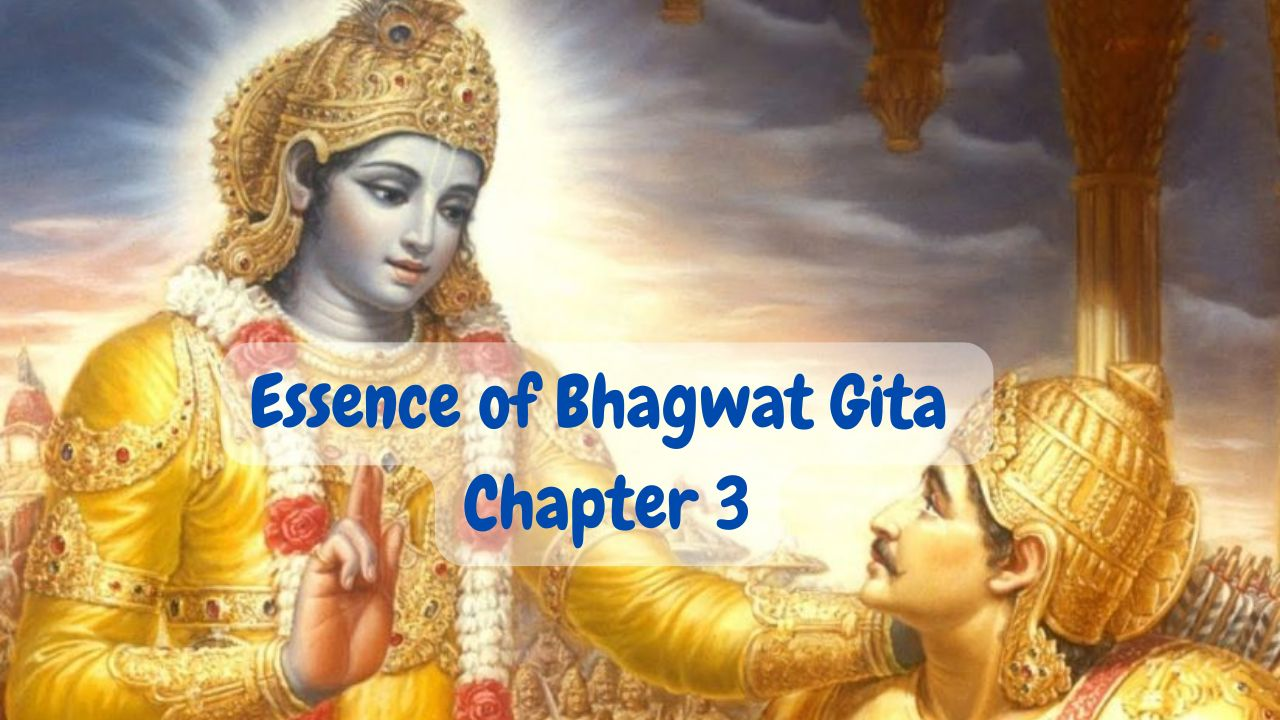
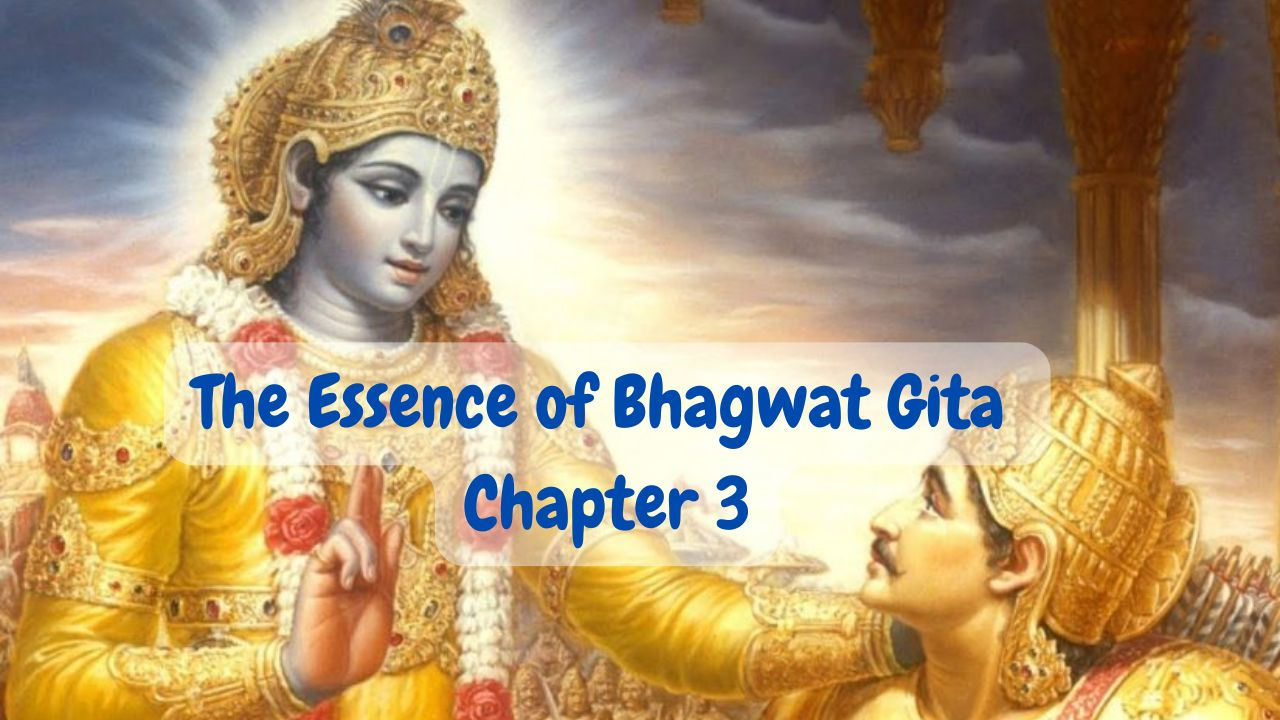
The Essence of BG 18th chapter

Changed region(s): [[0.125, 0.4583, 0.8438, 0.6722]]

diff --git a/_wiablog/2025-02-09-The-Essense-of-Bhagwat-Gita-18th-Chapter.md b/_wiablog/2025-02-09-The-Essense-of-Bhagwat-Gita-18th-Chapter.md
@@ -1,0 +1,206 @@
+---        
+id: 5276
+mathjax: true        
+title:  "The Essence of Bhagwat Gita: 18th Chapter"        
+date: "2025-02-09T08:33:00+05:30"        
+permalink: /wiaposts/essence-of-bhagwat-gita-18th-chapter
+header:        
+    teaser: /assets/images/wiapost/5276-Essence-of-Bhagwat-Gita-18th-chapter.jpg               
+author: Hari Thapliyaal        
+layout: wiapost-layout        
+author_profile: true        
+share: true
+categories: [wiaposts] 
+tags:  [Vedanta,  Mindfulness, Bhagwat Gita]      
+keywords: [Bhagavad Gita Chapter 18 Summary, Moksha Sannyasa Yoga, Path of Liberation and Renunciation, Essence of Bhagavad Gita]  
+excerpt: The 18th chapter of the Bhagavad Gita, titled Moksha-Sannyasa Yoga" (The Yoga of Liberation and Renunciation). It is one of the longest chapter with 78 sloka. Key takeaways from this chapter are discussed in this article.
+toc: true
+toc_sticky: true
+toc_levels: 3
+---
+
+![The Essence of Bhagwat Gita: 18th Chapter](/assets/images/wiapost/5276-Essence-of-Bhagwat-Gita-18th-chapter.jpg)
+
+# The Essence of Bhagwat Gita: 18th Chapter
+
+The 18th chapter of the **Bhagavad Gita**, titled Moksha-Sannyasa Yoga" (The Yoga of Liberation and Renunciation). It is one of the longest chapter with 78 sloka. Key takeaways from this chapter are discussed in this article. At this time I am writing only in Hindi and Devanagari script, in future when time permit I will translate this into English.
+
+##  Difference between Renunciation (Sanyasa) and  Tyaga  
+### Sloka in Devanagari & Hindi 
+काम्यानां कर्मणां न्यासं संन्यासं कवयो विदुः ।  
+सर्वकर्मफलत्यागं प्राहुस्त्यागं विचक्षणाः ॥ 18.2 
+त्याज्यं दोषवदित्येके कर्म प्राहुर्मनीषिणः ।  
+यज्ञदानतपःकर्म न त्याज्यमिति चापरे ॥ 18.3  
+यज्ञदानतपःकर्म न त्याज्यं कार्यमेव तत् ।  
+यज्ञो दानं तपश्चैव पावनानि मनीषिणाम् ॥ 18.5
+
+कवि (पण्डित) जन काम्य कर्मों के त्याग को "संन्यास" समझते हैं और विचारशील जन समस्त कर्मों के फलों के त्याग को "त्याग" कहते हैं।  
+कुछ मनीषी जन कहते हैं कि समस्त कर्म दोषयुक्त होने के कारण त्याज्य हैं; और अन्य जन कहते हैं कि यज्ञ, दान और तपरूप कर्म त्याज्य नहीं हैं।  
+कर्म त्याज्य - यज्ञ, दान और तप का त्याज नहीं है । यज्ञ, दान और तप ये मनीषियों (साधकों) को पवित्र करने वाले हैं।
+
+## Three Types of Tyaga
+### Sloka in Devanagari & Hindi 
+नियतस्य तु संन्यासः कर्मणो नोपपद्यते ।  
+मोहात्तस्य परित्यागस्तामसः परिकीर्तितः ॥ 18.7  
+दुःखमित्येव यत्कर्म कायक्लेशभयात्त्यजेत् ।  
+स कृत्वा राजसं त्यागं नैव त्यागफलं लभेत् ॥ 18.8  
+कार्यमित्येव यत्कर्म नियतं क्रियतेऽर्जुन ।  
+सङ्गं त्यक्त्वा फलं चैव स त्यागः सात्त्विको मतः ॥ 18.9 
+
+
+जो कर्म नियत हैं, उनका संन्यास उचित नहीं है। मोहवश उन्हें त्याग देना तामसिक त्याग कहलाता है।  
+कर्म को दु:ख समझकर शारीरिक कष्ट के भय से त्यागना, इसे राजसिक त्याग कहते हैं । ऐसे त्यागका इच्छित फल प्राप्त नहीं होता है।  
+"कर्म करना कर्तव्य है" ऐसा समझकर जो नियत कर्म आसक्ति और फल को त्यागकर किया जाता है, वही सात्त्विक त्याग माना गया है।  
+
+
+
+## Five Causes for Karama Inspiration
+### Sloka in Devanagari & Hindi 
+
+**कर्मों की सिद्धि के लिए ये पांच कारण**
+
+पञ्चैतानि महाबाहो कारणानि निबोध मे।   
+सांख्ये कृतान्ते प्रोक्तानि सिद्धये सर्वकर्मणाम् ।। 18.13   
+अधिष्ठानं तथा कर्ता करणं च पृथग्विधम् ।  
+विविधाश्च पृथक्चेष्टा दैवं चैवात्र पञ्चमम् ॥ 18.14  
+शरीरवाङ्मनोभिर्यत्कर्म प्रारभते नरः।  
+न्याय्यं वा विपरीतं वा पञ्चैते तस्य हेतवः ।। 18.15
+
+समस्त कर्मों की सिद्धि के लिए ये पांच कारण सांख्य सिद्धांत में कहे गये हैं।   
+अधिष्ठान (शरीर), कर्ता ,विविध करण (इन्द्रियादि) ,विविध और पृथक्-पृथक् चेष्टाएं तथा पाँचवा हेतु दैव है।  
+मनुष्य अपने शरीर, वाणी और मन से जो कोई न्याय्य (उचित) या विपरीत (अनुचित) कर्म करता है, उसके ये पाँच कारण ही हैं।
+
+## Thinking I am Karta is Bad Intellect.
+### Sloka in Devanagari & Hindi 
+
+तत्रैवं सति कर्तारमात्मानं केवलं तु यः।  
+पश्यत्यकृतबुद्धित्वान्न स पश्यति दुर्मतिः ।। 18.16
+
+अब इस स्थिति में जो मनुष्य असंस्कृत बुद्धि होने के कारण, आत्मा को कर्ता समझता हैं, वह दुर्मति पुरुष, यथार्थ नहीं देखता है।।
+
+
+## Who get boundage?
+### Sloka in Devanagari & Hindi 
+यस्य नाहंकृतो भावो बुद्धिर्यस्य न लिप्यते।  
+हत्वापि स इमाँल्लोकान्न हन्ति न निबध्यते ।। 18.17
+
+जिस पुरुष में अहंकार (कर्ता) का भाव नहीं है और बुद्धि किसी (गुण दोष) से लिप्त नहीं होती, वह पुरुष इन सब लोकों को मारकर भी वास्तव में न मरता है और न (पाप से) बँधता है।।
+
+## What provoke us to do the Karma?
+### Sloka in Devanagari & Hindi 
+
+ज्ञानं ज्ञेयं परिज्ञाता त्रिविधा कर्मचोदना।  
+करणं कर्म कर्तेति त्रिविधः कर्मसंग्रहः। । 18.18
+
+कर्म की प्रेरणा तीन प्रकार से हो सकती है  
+1- ज्ञानं - ज्ञाता के मन में उत्पन्न हुई इच्छा के रूप में  
+2- ज्ञेयं - ज्ञेय वस्तु के प्रलोभन से  
+3- परिज्ञाता - पूर्वानुभूत भोग (ज्ञात सुख) की स्मृति से  
+अन्तकरण में कर्म की प्रेरणा उत्पन्न होने के पश्चात् उसको पूर्ण करने के लिए त्रिविध कर्मसंग्रह (कर्ता, करण और कर्म नामक त्रिपुटी) की आवश्यकता होती है.
+
+
+
+## Three Types of Jñāna (Knowledge)
+### Sloka in Devanagari & Hindi 
+
+सर्वभूतेषु येनैकं भावमव्ययमीक्षते।  
+अविभक्तं विभक्तेषु तज्ज्ञानं विद्धि सात्त्विकम् ।। 18.20  
+पृथक्त्वेन तु यज्ज्ञानं नानाभावान्पृथग्विधान्।  
+वेत्ति सर्वेषु भूतेषु तज्ज्ञानं विद्धि राजसम् ।। 18.21  
+यत्तु कृत्स्नवदेकस्मिन्कार्ये सक्तमहैतुकम्।  
+अतत्त्वार्थवदल्पं च तत्तामसमुदाहृतम् ।। 18.22  
+
+जिस ज्ञान से मनुष्य, विभक्त रूप में स्थित समस्त भूतों में एक अविभक्त और अव्यय (अविनाशी) स्वरूप को देखता है, वह ज्ञान को सात्त्विक जानो।  
+जिस ज्ञान के द्वारा मनुष्य समस्त भूतों में नाना भावों को पृथक्-पृथक् जानता है, उस ज्ञान को तुम राजस जानो।  
+जिस ज्ञान के द्वारा मनुष्य एक कार्य (शरीर) में ही आसक्त हो जाता है, वह कारण (हेतु) का विचार ही नहीं करते। ऐेसे  अल्प एवं तत्त्वार्थ से रहित ज्ञान को तामसिक ज्ञान कहते हैं।  
+
+---
+
+## Three Types of Actions (Karma) 
+### Sloka in Devanagari & Hindi  
+नियतं सङ्गरहितमरागद्वेषतः कृतम्।   
+अफलप्रेप्सुना कर्म यत्तत्सात्त्विकमुच्यते ।। 18.23   
+यत्तु कामेप्सुना कर्म साहङ्कारेण वा पुनः।     
+क्रियते बहुलायासं तद्राजसमुदाहृतम् ।। 18.24  
+अनुबन्धं क्षयं हिंसामनपेक्ष्य च पौरुषम्।  
+मोहादारभ्यते कर्म यत्तत्तामसमुच्यते ।। 18.25  
+
+नियत कर्म जो संगरहित, राग द्वेष रहित, फल प्राप्ति की इच्छा के बिना किया जाता है, वह सात्त्विक कर्म कहलाता है।  
+जो कर्म बहुत परिश्रम से युक्त है तथा फल की कामना वाले, अहंकारयुक्त भाव के द्वारा किया जाता है, वह कर्म राजस कहा गया है।  
+जो कर्म परिणाम, हानि, हिंसा और सार्मथ्य (पौरुषम्) का विचार न करके केवल मोहवश आरम्भ किया जाता है, वह कर्म तामस कहलाता है।।
+
+
+## Three Types of Doers (Kartā)  
+### Sloka in Devanagari & Hindi 
+मुक्तसङ्गोऽनहंवादी धृत्युत्साहसमन्वितः।  
+सिद्ध्यसिद्ध्योर्निर्विकारः कर्ता सात्त्विक उच्यते ।। 18.26 
+रागी कर्मफलप्रेप्सुर्लुब्धो हिंसात्मकोऽशुचिः।  
+हर्षशोकान्वितः कर्ता राजसः परिकीर्तितः ।। 18.27
+अयुक्तः प्राकृतः स्तब्धः शठो नैष्कृतिकोऽलसः।  
+विषादी दीर्घसूत्री च कर्ता तामस उच्यते ।। 18.28  
+
+संगरहित, अहंमन्यता से रहित, धैर्य और उत्साह से युक्त एवं कार्य की सिद्धि और असिद्धि में निर्विकार रहता है, वह सात्त्विक कर्ता कहा जाता है।   
+रागी, कर्मफल का इच्छुक, लोभी, हिंसक स्वभाव वाला, अशुद्ध और हर्षशोक से युक्त कर्ता राजस कहलाता है।  
+अयुक्त, प्राकृत, स्तब्ध, शठ, नैष्कृतिक, आलसी, विषादी और दीर्घसूत्री कर्ता तामस कहा जाता है।  
+
+---
+
+## Three Types of Buddhi (Intellect) 
+### Sloka in Devanagari & Hindi 
+प्रवृत्तिं च निवृत्तिं च कार्याकार्ये भयाभये।  
+बन्धं मोक्षं च या वेत्ति बुद्धिः सा पार्थ सात्त्विकी ।। 18.30  
+यया धर्ममधर्मं च कार्यं चाकार्यमेव च।  
+अयथावत्प्रजानाति बुद्धिः सा पार्थ राजसी ।। 18.31  
+अधर्मं धर्ममिति या मन्यते तमसाऽऽवृता।  
+सर्वार्थान्विपरीतांश्च बुद्धिः सा पार्थ तामसी ।।1 8.32  
+
+जो बुद्धि प्रवृत्ति और निवृत्ति, कार्य और अकार्य, भय और अभय तथा बन्ध और मोक्ष को तत्त्वत जानती है, वह बुद्धि सात्विकी है।  
+जिस बुद्धि के द्वारा मनुष्य धर्म और अधर्म को तथा कार्य और अकार्य को यथावत् नहीं जानता है, वह बुद्धि राजसी है।  
+तमस् (अन्ध:कार) से आवृत जो बुद्धि अधर्म को ही धर्म मानती है और सभी पदार्थों को विपरीत रूप से जानती है, वह बुद्धि तामसी है।  
+
+## Three Types of Dhṛti (Determination)**
+### Sloka in Devanagari & Hindi   
+धृत्या यया धारयते मनःप्राणेन्द्रियक्रियाः।  
+योगेनाव्यभिचारिण्या धृतिः सा पार्थ सात्त्विकी ।। 18.33  
+यया तु धर्मकामार्थान् धृत्या धारयतेऽर्जुन।  
+प्रसङ्गेन फलाकाङ्क्षी धृतिः सा पार्थ राजसी ।। 18.34  
+यया स्वप्नं भयं शोकं विषादं मदमेव च।  
+न विमुञ्चति दुर्मेधा धृतिः सा पार्थ तामसी ।। 18.35  
+
+जो धृति मन प्राण इन्द्रियों की क्रियाओं को योगाभ्यास तथा एक लक्ष्यानुसंधान की सहायता से संयमित करता है। वह सात्त्विक धृति है।  
+कर्मफल का इच्छुक पुरुष अति आसक्ति (प्रसंग) से जिस धृति के द्वारा धर्म, अर्थ और काम (तीन पुरुषार्थों) को धारण करता है। वह धृति राजसी है।  
+दुर्बुद्धि मनुष्य जिस धारणा के द्वारा, स्वप्न, भय, शोक, विषाद और मद को नहीं त्यागता है। वह धृति तामसी है।  
+
+## Four Divisions of Varna (Based on Guna and Karma)
+
+### Sloka in Devanagari & Hindi  -  18.41
+ब्राह्मणक्षत्रियविशां शूद्राणां च परंतप।
+स्वभावप्रभवैर्गुणैः कर्माणि प्रविभक्तानि ॥ 18.41 
+
+ब्राह्मण, क्षत्रिय, वैश्य और शूद्रों के कर्म उनके **स्वभाव और गुणों के अनुसार** विभाजित किए गए हैं।  
+
+- **Brahmanas** (scholars & priests) - wisdom, peace, knowledge  
+- **Kshatriyas** (warriors & rulers) - courage, strength, leadership  
+- **Vaishyas** (merchants & farmers) - commerce, trade, wealth creation  
+- **Shudras** (workers & service providers) - labor, support, craftsmanship  
+
+
+---
+
+## The Role Bhakti in knowing the Supreme Truth  
+### Sloka in Devanagari & Hindi
+भक्त्या मामभिजानाति यावान्यश्चास्मि तत्त्वतः।    
+ततो मां तत्त्वतो ज्ञात्वा विशते तदनन्तरम्॥ (18.55)  
+
+भक्ति के द्वारा ही कोई मुझे तत्त्वत: जान सकता है। जब वह मुझे तत्त्व से जान लेता है, तब वह मुझमें प्रवेश करता है।  (भक्ति ज्ञान का परिणाम होनी चाहिए, बुद्धि को शून्य करके नहीं वरन बुद्धि से परे जाकर। जब सारे तर्क समाप्त हो जायें न कि स्मृति एवं तर्क के अभाव और हताशा में)  
+
+---
+
+### 4. **Path to Moksha (Liberation)**  
+
+### Sloka in Devanagari & Hindi
+सर्वधर्मान्परित्यज्य मामेकं शरणं व्रज।   
+अहं त्वां सर्वपापेभ्यो मोक्षयिष्यामि मा शुचः॥ 18.66   
+
+सभी धर्मों को त्याग कर **केवल मेरी शरण में आओ**। मैं तुम्हें सभी पापों से मुक्त कर दूँगा, चिंता मत करो।  
+

diff --git a/_wiablog/2025-02-08-The-Essence-of-Bhagwat-Gita-3rd-chapter.md b/_wiablog/2025-02-08-The-Essence-of-Bhagwat-Gita-3rd-chapter.md
@@ -1,7 +1,7 @@
 ---        
 id: 5275
 mathjax: true        
-title:  "Essence of Bhagwat Gita: 3rd Chapter"        
+title:  "The Essence of Bhagwat Gita: 3rd Chapter"        
 date: "2025-02-08T08:33:00+05:30"        
 permalink: /wiaposts/essence-of-bhagwat-gita-3rd-chapter
 header:        
@@ -14,11 +14,14 @@ categories: [wiaposts]
 tags:  [Vedanta,  Mindfulness, Bhagwat Gita]      
 keywords: [Bhagavad Gita Chapter 3 Summary, Karma Yoga, Mindfulness and Self Realization, Path of Selfless Action, Essence of Bhagavad Gita]  
 excerpt: The third chapter of the Bhagavad Gita is a treasure trove of spiritual wisdom, providing powerful insights on the path of  action, the importance of mindfulness, and the keys to achieving self-realization.
+toc: true
+toc_sticky: true
+toc_levels: 3
 ---
 
 ![](/assets/images/wiapost/5275-Essence-of-Bhagwat-Gita-3rd-chapter.jpg)
 
-# Essence of Bhagwat Gita: 3rd Chapter
+# The Essence of Bhagwat Gita: 3rd Chapter
 
 The third chapter of the *Bhagavad Gita* focuses on **Karma Yoga**. Our modern life presents several challenges when it comes to understanding ancient wisdom:  
 
@@ -190,7 +193,40 @@ Krishna advises surrendering actions to the divine (Ishwararpanam). This mindset
 
 ---
 
-## **9. Control Over Desires (Lust & Anger as Enemies)**  
+## **9. Following your own Swadharma**  
+### **Bhagwat Gita Sloka 3.35: English Version**
+Śreyān svadharmo viguṇaḥ paradharmāt svanuṣṭhitāt \|   
+Svadharme nidhanam śreyaḥ paradharmo bhayāvahaḥ \|\| 3.35
+
+It is far better to perform one's own duty (dharma) imperfectly than to perfectly perform another's duty. It is better to die in one’s own duty; following another’s path is fraught with fear.
+
+### **Bhagwat Gita Sloka 3.35: Hindi Version**
+श्रेयान्स्वधर्मो विगुणः परधर्मात्स्वनुष्ठितात् \|   
+स्वधर्मे निधनं श्रेयः परधर्मो भयावहः \|\| 3.35
+
+अपने स्वधर्म का पालन करना, भले ही वह दोषपूर्ण हो, दूसरे के धर्म का पूरी तरह से पालन करने से श्रेष्ठ है। स्वधर्म में मरना भी कल्याणकारी है, जबकि परधर्म भयावह होता है।
+
+
+You might ask questions like:  
+- How do I know my **Swadharma**?  
+- Is taking care of my parents and fulfilling my office responsibilities my Swadharma?  
+- Or is my Swadharma following my **Jati Dharma**, which comes from my **Kula** (community) and **Varna**?  
+- Or is my Swadharma about caring for the weak, poor, and underprivileged?  
+- Or does it mean putting the interests of my nation, parents, and community above my own?  
+
+Next, you can explore:  
+- **What is Paradharma?**  
+- Is taking care of others' parents, community, and nation considered Paradharma?  
+- Is prioritizing my self-interest above others (such as competitors, vendors, ill-intentioned people, or selfish individuals) Paradharma?  
+
+Then, reflect: Why is Paradharma fraught with danger, and why is Swadharma better?  
+
+This is just an example of how you can reflect on every shloka. Scriptures are not just about memorization, chanting, or proving how good your memory is. That is a very small aspect of life. These shlokas from scriptures are to help you reflect, declutter your mind, and bring clarity to your life.  
+
+
+
+---
+## **10. Control Over Desires (Lust & Anger as Enemies)**  
 ### **Bhagwat Gita Sloka 3.37: English Version**
 
 Kāma eṣha krodha eṣha rajo-guṇa-samudbhavaḥ \|  
